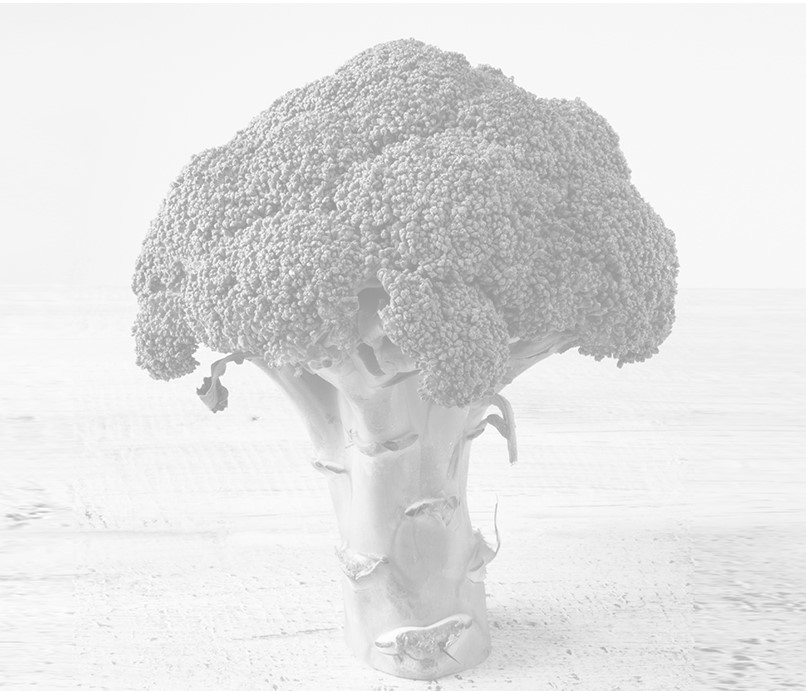
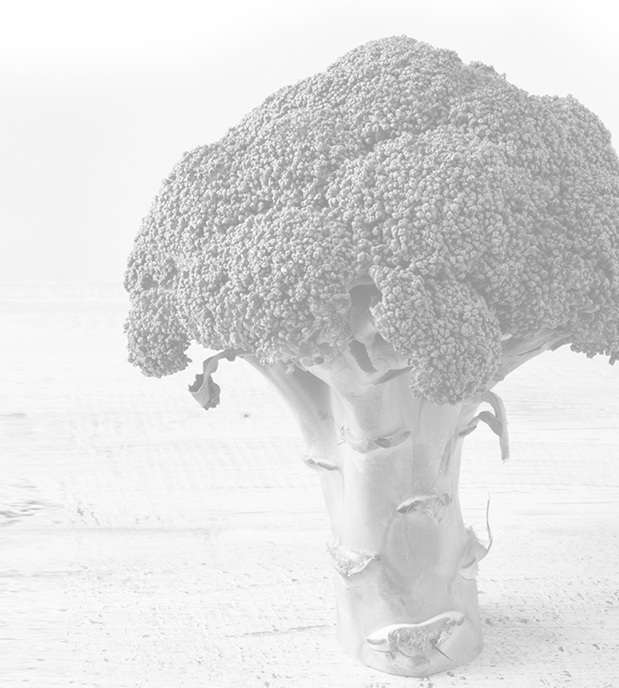
Avance responsive QUIENES SOMOS

diff --git a/less/responsive.less b/less/responsive.less
@@ -1068,11 +1068,54 @@
 
         }
     }
+    
+    #office{
+        
+        background: url(../img/whoweare/res-banner.jpg) center no-repeat;
+        
+        padding-top: 100px;
+        min-height: 500px;
+
+        background-size: cover;
+        .uptown {
+            font-size: 48px !important;
+        }
+        h2 {
+            z-index: 999;
+            position: relative;
+            top: 112px;
+            padding-bottom: 30px;
+            font-size: 30px;
+            line-height: 150%;
+        }
+        .container {
+            width: 100%;
+            padding: 0;
+            display: flex;
+            justify-content: center;
+            align-items: center;
+            flex-direction: column;
+        }
+        .w-box {
+          
+            margin-bottom: 40px; //opacity: .75;
+            //z-index: -1;
+            p {
+                //color: white;
+              padding-top: 80px !important;
+          
+            }
+
+
+            width: 85% !important;
+        }
+    
+    }
 
     #queremos {
 
         .col {
-            text-align: center !important; //THE
+            text-align: left!important; //THEasdfasdfasdf
             display: flex !important; //SUPER
             justify-content: center !important; //RESPONSIVE
             align-items: center !important; //TOOL
@@ -1113,17 +1156,34 @@
 
     #vision,
     #mision {
-
+        height: 800px !important;
+        #girl-mision{
+            background: url(../img/whoweare/res-mision-girlRed.jpg) center no-repeat;
+             height: 400px !important;
+        }
+        
+         #boy-vision{
+            background: url(../img/whoweare/res-vision-boySmile.jpg) center no-repeat;
+             height: 490px !important;
+        }
+        
+        
+        
         .flex {
-            height: 550px;
+            height: 800px;
 
             h2 {
-                font-size: 52px;
+                font-size: 86px;
                 font-weight: 100;
             }
 
             .col-txt {
                 padding: 15px;
+                //min-height: 600px !important;
+            }
+            
+            .fcentered{
+                justify-content: flex-start;
             }
         }
         .container {
@@ -1132,10 +1192,11 @@
 
         .col {
 
-            text-align: center; //THE
+            text-align: justify; //THE
+            text-align-last: center;
             display: flex; //SUPER
-            justify-content: center; //RESPONSIVE
-            align-items: center; //TOOL
+            //justify-content: center; //RESPONSIVE
+            //align-items: center; //TOOL
             flex-direction: column; // OMEGA
             width: 100%;
 
@@ -1143,6 +1204,9 @@
     }
 
     #vision {
+        
+       
+        
         flex-wrap: wrap-reverse;
         .flex {
             flex-wrap: wrap-reverse;
@@ -1153,8 +1217,9 @@
 
 
     #valores {
+        padding-top: 20px;
         background: url(../img/whoweare/Responsive-brocoliCASABLANCA.jpg) center no-repeat;
-        background-size: 185%;
+        background-size: 122%;
         .container {
             padding: 20px 6%;
         }

diff --git a/less/main.css b/less/main.css
@@ -2465,11 +2465,43 @@
     width: 100%;
     padding-bottom: 25px;
   }
+  #shiny-template #office {
+    background: url(../img/whoweare/res-banner.jpg) center no-repeat;
+    padding-top: 100px;
+    min-height: 500px;
+    background-size: cover;
+  }
+  #shiny-template #office .uptown {
+    font-size: 48px !important;
+  }
+  #shiny-template #office h2 {
+    z-index: 999;
+    position: relative;
+    top: 112px;
+    padding-bottom: 30px;
+    font-size: 30px;
+    line-height: 150%;
+  }
+  #shiny-template #office .container {
+    width: 100%;
+    padding: 0;
+    display: flex;
+    justify-content: center;
+    align-items: center;
+    flex-direction: column;
+  }
+  #shiny-template #office .w-box {
+    margin-bottom: 40px;
+    width: 85% !important;
+  }
+  #shiny-template #office .w-box p {
+    padding-top: 80px !important;
+  }
   #shiny-template #queremos {
     padding-left: 0px;
   }
   #shiny-template #queremos .col {
-    text-align: center !important;
+    text-align: left!important;
     display: flex !important;
     justify-content: center !important;
     align-items: center !important;
@@ -2498,18 +2530,36 @@
     position: relative;
     top: 0px;
   }
+  #shiny-template #vision,
+  #shiny-template #mision {
+    height: 800px !important;
+  }
+  #shiny-template #vision #girl-mision,
+  #shiny-template #mision #girl-mision {
+    background: url(../img/whoweare/res-mision-girlRed.jpg) center no-repeat;
+    height: 400px !important;
+  }
+  #shiny-template #vision #boy-vision,
+  #shiny-template #mision #boy-vision {
+    background: url(../img/whoweare/res-vision-boySmile.jpg) center no-repeat;
+    height: 490px !important;
+  }
   #shiny-template #vision .flex,
   #shiny-template #mision .flex {
-    height: 550px;
+    height: 800px;
   }
   #shiny-template #vision .flex h2,
   #shiny-template #mision .flex h2 {
-    font-size: 52px;
+    font-size: 86px;
     font-weight: 100;
   }
   #shiny-template #vision .flex .col-txt,
   #shiny-template #mision .flex .col-txt {
     padding: 15px;
+  }
+  #shiny-template #vision .flex .fcentered,
+  #shiny-template #mision .flex .fcentered {
+    justify-content: flex-start;
   }
   #shiny-template #vision .container,
   #shiny-template #mision .container {
@@ -2517,10 +2567,9 @@
   }
   #shiny-template #vision .col,
   #shiny-template #mision .col {
-    text-align: center;
+    text-align: justify;
+    text-align-last: center;
     display: flex;
-    justify-content: center;
-    align-items: center;
     flex-direction: column;
     width: 100%;
   }
@@ -2531,8 +2580,9 @@
     flex-wrap: wrap-reverse;
   }
   #shiny-template #valores {
+    padding-top: 20px;
     background: url(../img/whoweare/Responsive-brocoliCASABLANCA.jpg) center no-repeat;
-    background-size: 185%;
+    background-size: 122%;
   }
   #shiny-template #valores .container {
     padding: 20px 6%;
